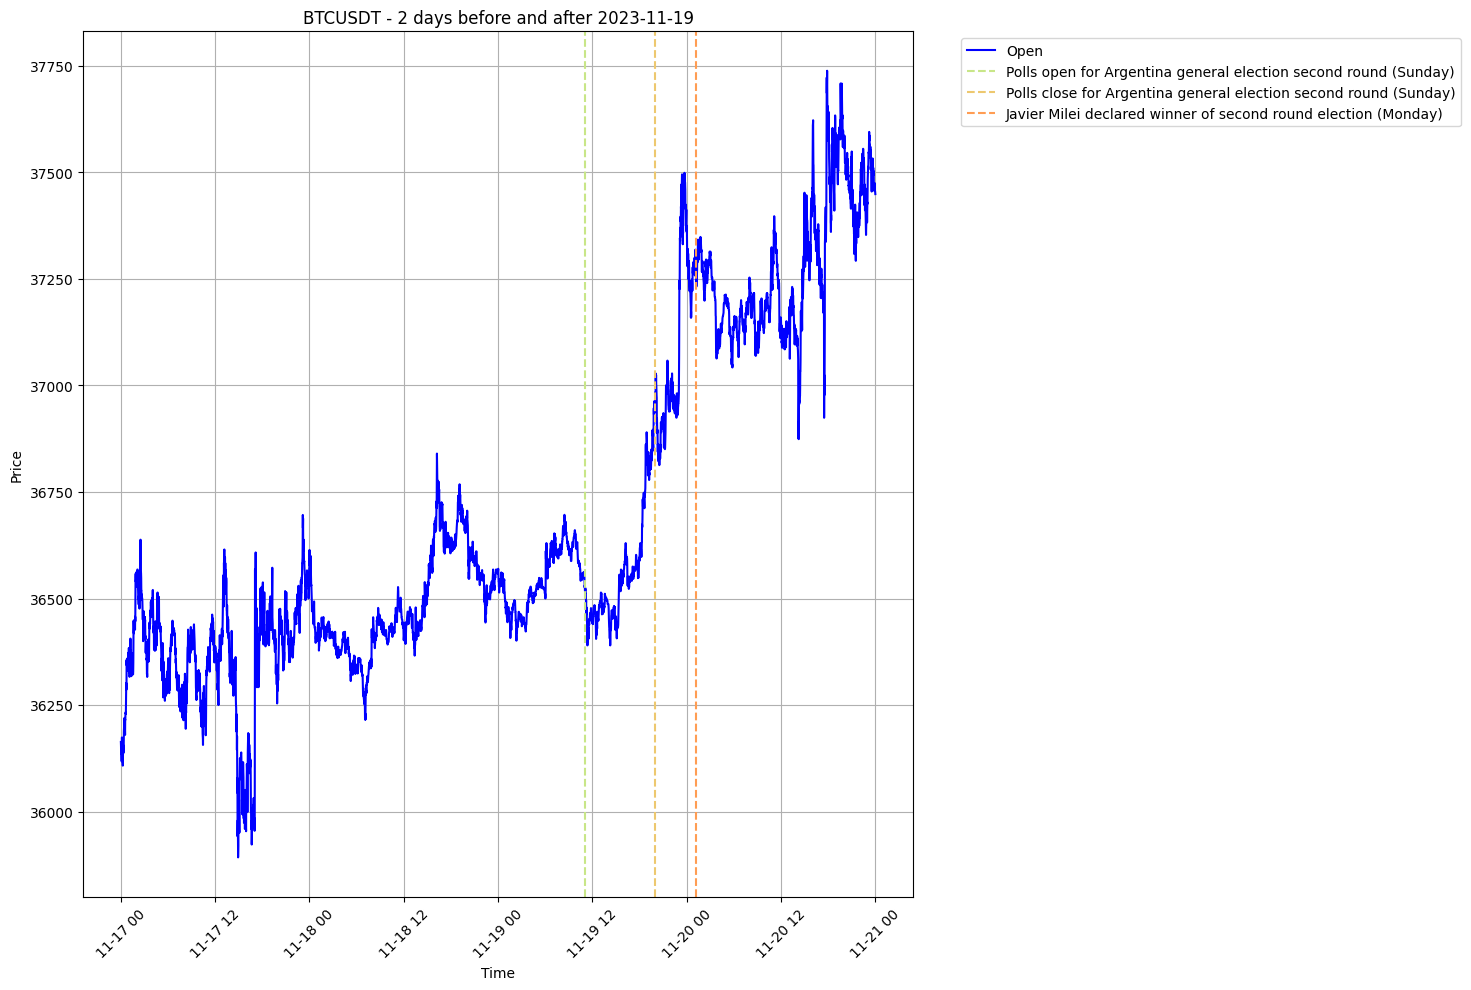
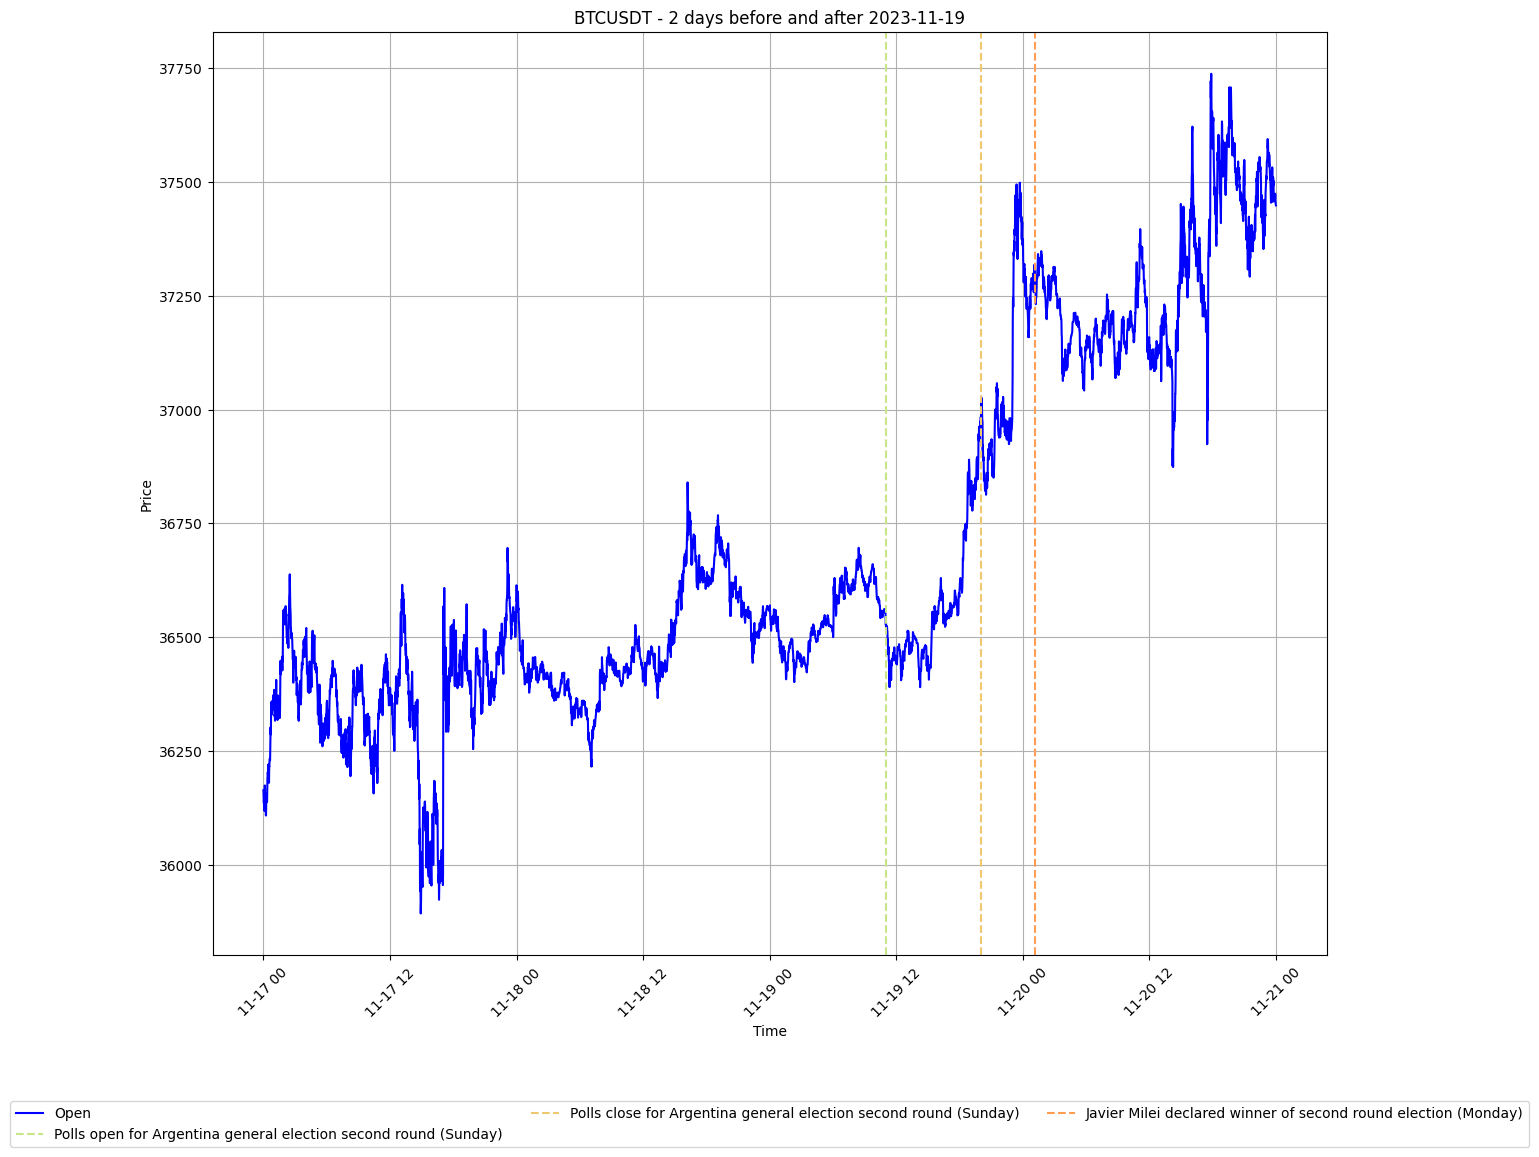
moved legend to bottom

diff --git a/src/visualize.py b/src/visualize.py
@@ -34,25 +34,20 @@ def visualize_data(
             "Ignore",
         ],
     )
-
     data["Open Time"] = pd.to_datetime(data["Open Time"], unit="ms", utc=True)
     data["Close Time"] = pd.to_datetime(data["Close Time"], unit="ms", utc=True)
-
     event_datetime = pd.to_datetime(event_date).tz_localize(timezone.utc)
     start_date = event_datetime - timedelta(days=time_window)
     end_date = event_datetime + timedelta(days=time_window)
-
     data = data[(data["Open Time"] >= start_date) & (data["Open Time"] <= end_date)]
 
-    plt.figure(figsize=(15, 10))  # Adjusted figure size
+    plt.figure(figsize=(15, 12))  # Increased figure height to accommodate legend
     sns.lineplot(x=data["Open Time"], y=data["Open"], label="Open", color="blue")
 
     # Sort events by date
     sorted_events = sorted(notable_events.items(), key=lambda x: pd.to_datetime(x[0]))
-
     # Create a dictionary to store event positions
     event_positions = {}
-
     # Create a color cycle for event lines
     colors = plt.cm.rainbow(np.linspace(0, 1, len(sorted_events)))
 
@@ -61,7 +56,6 @@ def visualize_data(
         if start_date <= notable_time <= end_date:
             color = colors[i]
             plt.axvline(x=notable_time, color=color, linestyle="--", label=description)
-
             # Calculate vertical position for the text
             if notable_time in event_positions:
                 event_positions[notable_time] += 1
@@ -71,13 +65,18 @@ def visualize_data(
     plt.title(f"{currency_pair} - {time_window} days before and after {event_date}")
     plt.xlabel("Time")
     plt.ylabel("Price")
-    plt.legend(bbox_to_anchor=(1.05, 1), loc="upper left")
+    
+    # Move legend to bottom and adjust its appearance
+    plt.legend(loc='upper center', bbox_to_anchor=(0.5, -0.15), ncol=3)
+    
     plt.grid(True)
     plt.xticks(rotation=45)
 
-    # Manually adjust layout
-    plt.subplots_adjust(left=0.1, right=0.9, top=0.9, bottom=0.1)
+    # Adjust layout
     plt.tight_layout()
+    
+    # Add extra space at the bottom for the legend
+    plt.subplots_adjust(bottom=0.2)
 
     output_folder = "./output_images"
     os.makedirs(output_folder, exist_ok=True)
@@ -89,6 +88,7 @@ def visualize_data(
     if show is True:
         plt.show()
     plt.close()
+
 
 
 def main() -> None:
